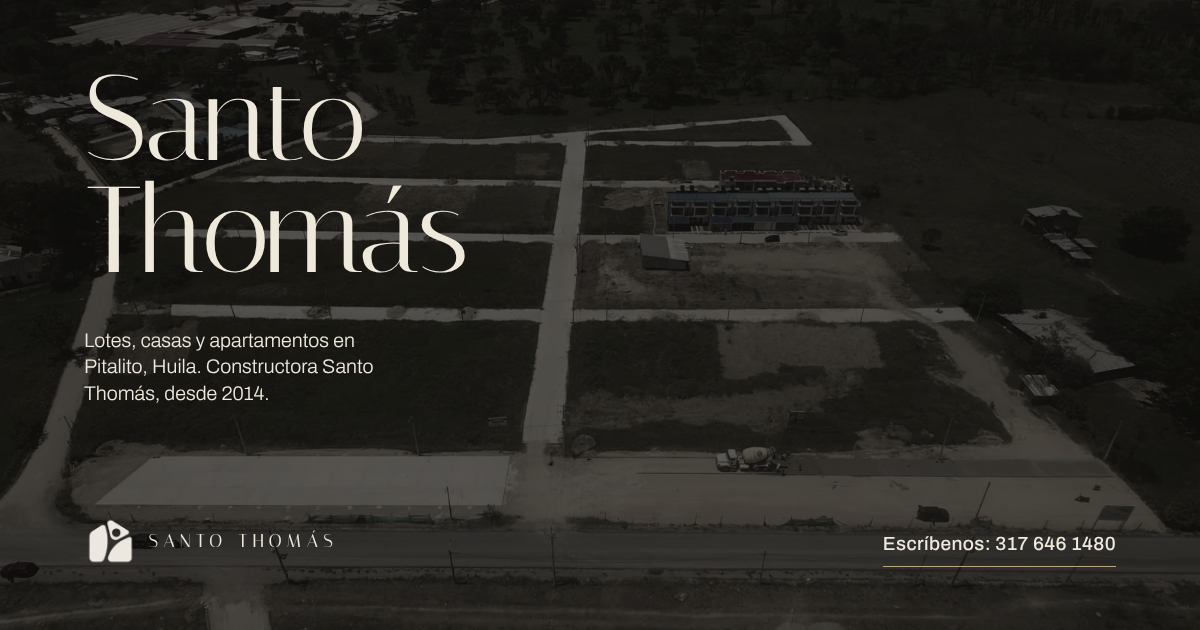
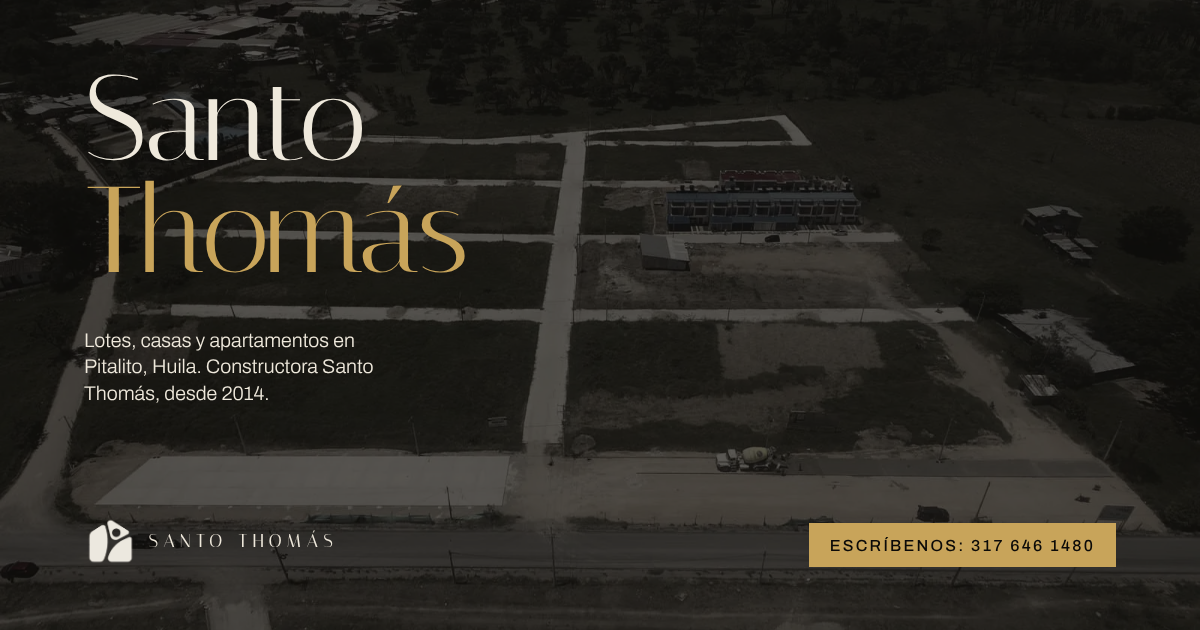
Apply the 60-30-10 palette: raise gold to the hero role
Gold now carries the primary actions, the second line of the name, the
key-dates band and the contact field; black stays the ground and ivory
the support. Fixes a menu link that had inherited the gold.

Claude-Session: https://claude.ai/code/session_01EuNx7qHGaqCun31qjyEdxN

Changed region(s): [[0.0925, 0.2714, 0.4008, 0.4524], [0.6475, 0.8143, 0.9558, 0.9048]]

diff --git a/santo-thomas/index.html b/santo-thomas/index.html
@@ -80,6 +80,10 @@ em{font-style:normal;color:var(--oro)}
 .accion:hover::before,.accion:focus-visible::before{width:84px}
 .accion:hover{color:var(--oro)}
 .accion:active::before{width:96px}
+.accion.oro{background:var(--oro);color:var(--negro);padding:0 28px;min-height:54px;gap:0;transition:background .3s,transform .15s}
+.accion.oro::before{display:none}
+.accion.oro:hover{background:#d8b871;color:var(--negro)}
+.accion.oro:active{transform:translateY(2px)}
 .enlace{text-decoration:underline;text-decoration-color:var(--bronce);text-decoration-thickness:1px;text-underline-offset:5px;transition:color .25s}
 .enlace:hover{color:var(--oro)}
 
@@ -106,12 +110,13 @@ em{font-style:normal;color:var(--oro)}
 .barra ul{display:flex;gap:clamp(18px,3vw,48px)}
 .barra nav a{text-decoration:none;font-size:12px;font-weight:500;letter-spacing:.22em;text-transform:uppercase;padding:12px 0;display:block;transition:color .25s}
 .barra nav a:hover{color:var(--oro)}
-@media(max-width:899px){.barra{flex-wrap:wrap;gap:6px var(--m);padding-block:20px}.barra nav{width:100%}.barra ul{justify-content:space-between}.barra nav a{font-size:11px;letter-spacing:.16em}.barra .wa{display:none}}
+.barra .wa a{color:var(--oro)}
+@media(max-width:899px){.barra{flex-wrap:wrap;gap:6px var(--m);padding-block:20px}.barra nav{width:100%}.barra ul{justify-content:space-between}.barra nav a{font-size:11px;letter-spacing:.16em}.barra .wa,.barra .ocu{display:none}}
 
 /* Portada: dos palabras enormes que pisan las fotos */
 .portada{position:relative;min-height:max(100svh,700px);display:grid;grid-template-columns:repeat(12,minmax(0,1fr));grid-template-rows:1fr auto;column-gap:var(--m);padding:120px var(--m) clamp(28px,5vh,56px)}
-.portada h1{grid-column:1/-1;grid-row:1;align-self:center;position:relative;z-index:2;font-size:clamp(72px,15.4vw,270px);line-height:.9;letter-spacing:-.02em;pointer-events:none;mix-blend-mode:difference}
-.portada h1 .l2{padding-left:16vw}
+.portada h1{grid-column:1/-1;grid-row:1;align-self:center;position:relative;z-index:2;font-size:clamp(72px,15.4vw,270px);line-height:.9;letter-spacing:-.02em;pointer-events:none}
+.portada h1 .l2{padding-left:16vw;color:var(--oro)}
 /* El isotipo vive en la sangría de la segunda línea; el vidrio lo revela al abrir */
 .portada .sello{grid-column:1/4;grid-row:1;align-self:center;position:relative;z-index:1;width:21vw;margin-left:-3.4vw;aspect-ratio:1;transform:translateY(7.6vw);cursor:pointer}
 .portada .sello img{position:absolute;inset:0;margin:auto;width:42%;height:auto}
@@ -196,7 +201,7 @@ em{font-style:normal;color:var(--oro)}
 .laminas .cab{display:flex;justify-content:space-between;align-items:end;gap:24px;padding-bottom:28px}
 .lamina{display:grid;gap:28px;padding-block:44px}
 .lamina .foto{aspect-ratio:4/3}
-.lamina .num{font-family:var(--serif);font-size:clamp(90px,15vw,250px);line-height:.8;letter-spacing:-.02em;color:var(--bronce)}
+.lamina .num{font-family:var(--serif);font-size:clamp(90px,15vw,250px);line-height:.8;letter-spacing:-.02em;color:var(--oro)}
 .lamina .txt{display:grid;gap:24px;justify-items:start;align-content:end}
 .lamina h3{font-size:clamp(40px,5.2vw,88px)}
 .lamina .txt p:not(.decl){max-width:40ch}
@@ -245,7 +250,7 @@ em{font-style:normal;color:var(--oro)}
 .opciones label::after{content:"";width:8px;height:8px;border-radius:50%;background:var(--oro);opacity:0;transform:scale(.3);transition:opacity .3s,transform .5s var(--salir);flex:none;align-self:center}
 .opciones label:hover{color:var(--marfil)}
 .opciones input{position:absolute;opacity:0;pointer-events:none}
-.opciones label:has(input:checked){color:var(--marfil);padding-left:18px}
+.opciones label:has(input:checked){color:var(--oro);padding-left:18px}
 .opciones label:has(input:checked)::after{opacity:1;transform:none}
 .opciones label:has(input:focus-visible){outline:1px solid var(--oro);outline-offset:4px}
 .plano{position:relative;aspect-ratio:4/3}
@@ -259,8 +264,9 @@ em{font-style:normal;color:var(--oro)}
 .empresa .txt{display:grid;gap:28px;justify-items:start;align-content:start}
 .empresa .foto{aspect-ratio:4/5;background:var(--marfil-2)}
 @media(min-width:900px){.empresa{grid-template-columns:repeat(12,minmax(0,1fr));column-gap:var(--m)}.empresa .txt{grid-column:1/8}.empresa .foto{grid-column:9/13;margin-top:10vw}}
-.cifras{display:grid;gap:28px;padding-top:clamp(56px,8vw,120px)}
-.cifras div{display:grid;gap:10px;padding-top:22px;border-top:1px solid rgba(11,10,8,.2)}
+.cifras{display:grid;gap:28px;background:var(--oro);color:var(--negro);margin:clamp(56px,8vw,120px) calc(var(--m)*-1) calc(var(--seccion)*-1);padding:clamp(48px,6vw,96px) var(--m)}
+.cifras .rot{color:rgba(11,10,8,.72)}
+.cifras div{display:grid;gap:10px;padding-top:22px;border-top:1px solid rgba(11,10,8,.35)}
 .cifras b{font-family:var(--serif);font-weight:400;font-size:clamp(64px,9vw,150px);line-height:.86;letter-spacing:-.01em;font-variant-numeric:lining-nums}
 @media(min-width:700px){.cifras{grid-template-columns:repeat(3,minmax(0,1fr));column-gap:var(--m)}}
 .preg{display:grid;gap:clamp(28px,4vw,64px)}
@@ -275,16 +281,22 @@ em{font-style:normal;color:var(--oro)}
 .preg details p{padding:0 0 24px;max-width:52ch}
 
 /* Cierre */
-.cierre{padding-top:var(--seccion);overflow:hidden}
+.cierre{overflow:hidden}
+.cierre .campo{background:var(--oro);color:var(--negro);padding-top:clamp(72px,10vw,150px)}
+.cierre .campo .rot{color:rgba(11,10,8,.72)}
+.cierre .campo .enlace{text-decoration-color:rgba(11,10,8,.5)}
+.cierre .campo .enlace:hover{color:var(--negro);text-decoration-color:var(--negro)}
+.cierre .campo .accion.oro{background:var(--negro);color:var(--marfil)}
+.cierre .campo .accion.oro:hover{background:#1c1914;color:var(--marfil)}
 .cierre .datos{display:grid;gap:clamp(32px,5vw,80px);padding-bottom:clamp(64px,9vw,140px)}
 @media(min-width:900px){.cierre .datos{grid-template-columns:repeat(12,minmax(0,1fr));column-gap:var(--m);align-items:end}.cierre .datos > div{grid-column:1/8}.cierre address{grid-column:9/13}}
-.cierre .tel{font-family:var(--serif);font-size:clamp(48px,8vw,132px);letter-spacing:0;line-height:.9;text-decoration:none;display:inline-block;margin-block:22px 30px;transition:color .25s}
-.cierre .tel:hover{color:var(--oro)}
+.cierre .tel{font-family:var(--serif);font-size:clamp(48px,8vw,132px);letter-spacing:0;color:var(--negro);line-height:.9;text-decoration:none;display:inline-block;margin-block:22px 30px;transition:color .25s}
+.cierre .tel:hover{color:#3a2f17}
 .cierre address{font-style:normal;display:grid;gap:16px;justify-items:start}
-.cierre .firma{font-family:var(--serif);font-size:15vw;line-height:.86;letter-spacing:-.015em;white-space:nowrap;text-align:center;color:var(--carbon-2);padding-bottom:.06em;user-select:none}
+.cierre .firma{padding-top:clamp(48px,7vw,100px);font-family:var(--serif);font-size:15vw;line-height:.86;letter-spacing:-.015em;white-space:nowrap;text-align:center;color:var(--carbon-2);padding-bottom:.06em;user-select:none}
 .cierre .pie{padding:22px var(--m);border-top:1px solid var(--linea);display:flex;flex-wrap:wrap;gap:8px 24px;justify-content:space-between}
 
-.flota{position:fixed;left:0;right:0;bottom:0;z-index:14;display:none;justify-content:center;padding:14px var(--m) calc(14px + env(safe-area-inset-bottom));background:var(--negro);border-top:1px solid var(--linea);text-decoration:none;font-size:11px;font-weight:500;letter-spacing:.24em;text-transform:uppercase}
+.flota{position:fixed;left:0;right:0;bottom:0;z-index:14;display:none;justify-content:center;padding:14px var(--m) calc(14px + env(safe-area-inset-bottom));background:var(--oro);color:var(--negro);text-decoration:none;font-size:11px;font-weight:600;letter-spacing:.24em;text-transform:uppercase}
 @media(max-width:899px){.flota{display:flex}body{padding-bottom:52px}}
 </style>
 <script>document.documentElement.classList.add('js')</script>
@@ -301,7 +313,7 @@ em{font-style:normal;color:var(--oro)}
       <li><a href="#empresa">Historia</a></li>
       <li><a href="#ubicacion">Ubicación</a></li>
       <li><a href="#proyectos">Proyectos</a></li>
-      <li class="wa"><a href="#obra">Obra</a></li>
+      <li class="ocu"><a href="#obra">Obra</a></li>
       <li><a href="#contacto">Contacto</a></li>
       <li class="wa"><a href="https://wa.me/573176461480?text=Hola%2C%20quiero%20informaci%C3%B3n%20sobre%20los%20proyectos%20de%20Constructora%20Santo%20Thom%C3%A1s.">WhatsApp</a></li>
     </ul>
@@ -319,7 +331,7 @@ em{font-style:normal;color:var(--oro)}
   <div class="pie">
     <div class="apoyo">
       <p data-sube style="--i:4">Lotes, casas y apartamentos en Pitalito. Constructora Santo Thomás urbaniza y construye en el sur del Huila desde 2014.</p>
-      <a class="accion" data-sube style="--i:5" href="#proyectos">Ver los proyectos</a>
+      <a class="accion oro" data-sube style="--i:5" href="#proyectos">Ver los proyectos</a>
     </div>
     <p class="rot coord" data-sube style="--i:5">Pitalito, Huila<br><b>Valle de Laboyos</b></p>
   </div>
@@ -391,7 +403,7 @@ em{font-style:normal;color:var(--oro)}
             <h3>Santo Thomás <em>Urbanismo</em></h3>
             <p>Lotes residenciales y comerciales en Pitalito, con vías, conexión a servicios públicos y zonas verdes.</p>
             <dl class="ficha"><dt>Tipo</dt><dd>Lotes residenciales y comerciales</dd><dt>Lugar</dt><dd>Pitalito, Huila</dd></dl>
-            <a class="accion" href="https://wa.me/573176461480?text=Hola%2C%20quiero%20conocer%20los%20lotes%20disponibles%20en%20Santo%20Thom%C3%A1s%20Urbanismo.">Pedir áreas y precios</a>
+            <a class="accion oro" href="https://wa.me/573176461480?text=Hola%2C%20quiero%20conocer%20los%20lotes%20disponibles%20en%20Santo%20Thom%C3%A1s%20Urbanismo.">Pedir áreas y precios</a>
           </div>
         </div>
       </article>
@@ -404,7 +416,7 @@ em{font-style:normal;color:var(--oro)}
             <h3>Torre <em>Santo Thomás</em></h3>
             <p>Apartamentos sobre una plataforma de locales comerciales. Las imágenes son renders: muestran el diseño, no la obra terminada.</p>
             <dl class="ficha"><dt>Tipo</dt><dd>Apartamentos y locales</dd><dt>Lugar</dt><dd>Pitalito, Huila</dd></dl>
-            <a class="accion" href="https://wa.me/573176461480?text=Hola%2C%20quiero%20informaci%C3%B3n%20sobre%20la%20Torre%20Santo%20Thom%C3%A1s.">Pedir planos de la torre</a>
+            <a class="accion oro" href="https://wa.me/573176461480?text=Hola%2C%20quiero%20informaci%C3%B3n%20sobre%20la%20Torre%20Santo%20Thom%C3%A1s.">Pedir planos de la torre</a>
           </div>
         </div>
       </article>
@@ -417,7 +429,7 @@ em{font-style:normal;color:var(--oro)}
             <h3>Casas <em>y edificios</em></h3>
             <p>Casas de uno y dos pisos en Pitalito, y edificios de apartamentos con locales en el primer piso.</p>
             <dl class="ficha"><dt>Tipo</dt><dd>Vivienda de uno a cuatro pisos</dd><dt>Lugar</dt><dd>Pitalito, Huila</dd></dl>
-            <a class="accion" href="https://wa.me/573176461480?text=Hola%2C%20quiero%20informaci%C3%B3n%20sobre%20las%20casas%20de%20Constructora%20Santo%20Thom%C3%A1s.">Preguntar por casas</a>
+            <a class="accion oro" href="https://wa.me/573176461480?text=Hola%2C%20quiero%20informaci%C3%B3n%20sobre%20las%20casas%20de%20Constructora%20Santo%20Thom%C3%A1s.">Preguntar por casas</a>
           </div>
         </div>
       </article>
@@ -473,7 +485,7 @@ em{font-style:normal;color:var(--oro)}
         <label><span><input type="radio" name="tipo" value="torre">Apartamento</span></label>
       </div>
       <input type="hidden" name="text" id="busca-texto" value="Hola, estoy buscando un lote residencial en Pitalito. ¿Qué tienen disponible?">
-      <button class="accion" type="submit" data-sube style="--i:3" id="busca-btn">Preguntar por lotes residenciales</button>
+      <button class="accion oro" type="submit" data-sube style="--i:3" id="busca-btn">Preguntar por lotes residenciales</button>
     </form>
     <div data-sube style="--i:2">
       <div class="plano"><canvas id="plano" role="img" aria-label="Plano ilustrativo de una urbanización que resalta el tipo de inmueble elegido."></canvas></div>
@@ -496,18 +508,18 @@ em{font-style:normal;color:var(--oro)}
 </main>
 
 <footer class="cierre" id="contacto">
-  <div class="wrap datos" data-grupo>
+  <div class="campo"><div class="wrap datos" data-grupo>
     <div>
       <p class="rot" data-sube>Contacto</p>
       <a class="tel" data-sube style="--i:1" href="tel:+573176461480">317 646 1480</a><br>
-      <a class="accion" data-sube style="--i:2" href="https://wa.me/573176461480?text=Hola%2C%20quiero%20informaci%C3%B3n%20sobre%20los%20proyectos%20de%20Constructora%20Santo%20Thom%C3%A1s.">Escribir por WhatsApp</a>
+      <a class="accion oro" data-sube style="--i:2" href="https://wa.me/573176461480?text=Hola%2C%20quiero%20informaci%C3%B3n%20sobre%20los%20proyectos%20de%20Constructora%20Santo%20Thom%C3%A1s.">Escribir por WhatsApp</a>
     </div>
     <address data-sube style="--i:2">
       <span>Carrera 15 No. 19A-01 Sur, local 148<br>Centro Comercial Gran Plaza San Antonio<br>Pitalito, Huila</span>
       <a class="enlace" href="mailto:2019urbanizacionsantothomas@gmail.com?subject=Informaci%C3%B3n%20de%20proyectos">2019urbanizacionsantothomas@gmail.com</a>
       <a class="enlace" href="https://www.instagram.com/constructorasantothomas" rel="noopener">Instagram: @constructorasantothomas</a>
     </address>
-  </div>
+  </div></div>
   <p class="firma" aria-hidden="true">Santo Thomás</p>
   <div class="pie nota">
     <span>© 2026 Constructora Santo Thomás. Pitalito, Huila, Colombia.</span>

diff --git a/santo-thomas/banners/banners.html b/santo-thomas/banners/banners.html
@@ -16,7 +16,7 @@ h1{font-family:'Italiana',serif;font-weight:400;letter-spacing:-.015em;line-heig
 .fila{display:flex;align-items:flex-end;justify-content:space-between;gap:4cqw}
 .marca{display:flex;align-items:center;gap:calc(var(--u)*2);font-family:'Italiana',serif;font-weight:400;font-size:max(16px,calc(var(--u)*3.2));letter-spacing:.28em;text-transform:uppercase}
 .marca img{height:calc(var(--u)*9);width:auto}
-.cta{color:var(--cal);font-weight:500;letter-spacing:.02em;font-size:max(16px,calc(var(--u)*3.3));min-height:44px;display:flex;align-items:center;white-space:nowrap;background:linear-gradient(var(--oro),var(--oro)) left bottom/100% max(1px,calc(var(--u)*.25)) no-repeat;padding:0 0 calc(var(--u)*.6)}
+.cta{background:var(--oro);color:var(--tinta);font-weight:500;letter-spacing:.14em;text-transform:uppercase;font-size:max(16px,calc(var(--u)*2.5));min-height:44px;padding:calc(var(--u)*2.2) calc(var(--u)*3.6);display:flex;align-items:center;white-space:nowrap}
 /* A · Foto */
 .foto{background:var(--tinta)}
 .foto .img{position:absolute;inset:0;background:url(../img/aerea-loteo.webp) 50% 55%/cover}
@@ -31,11 +31,11 @@ h1{font-family:'Italiana',serif;font-weight:400;letter-spacing:-.015em;line-heig
 .loteo .panel{position:absolute;left:0;top:0;bottom:0;width:var(--panel);background:var(--campo-osc)}
 .loteo.alto .panel{width:100%;height:56%;bottom:auto}
 .loteo.alto .marca{background:var(--campo-osc);padding:calc(var(--u)*2) calc(var(--u)*3);margin-left:calc(var(--u)*-3)}
-.loteo .cta{background-color:var(--campo-osc);box-shadow:0 0 0 calc(var(--u)*2) var(--campo-osc)}
+.loteo .cta{box-shadow:0 0 0 calc(var(--u)*1.4) var(--campo-osc)}
 .loteo h1,.loteo .sub{max-width:7ch}.loteo .sub{max-width:22ch}
 .ancho h1,.tipografia.ancho h1{max-width:16ch;font-size:calc(var(--u)*19)}
 .ancho .sub{margin-top:calc(var(--u)*5);max-width:44ch}
-h1 em{font-style:normal}
+h1 em{font-style:normal;color:var(--oro)}
 .sub{font-weight:300}
 </style>
 </head>
